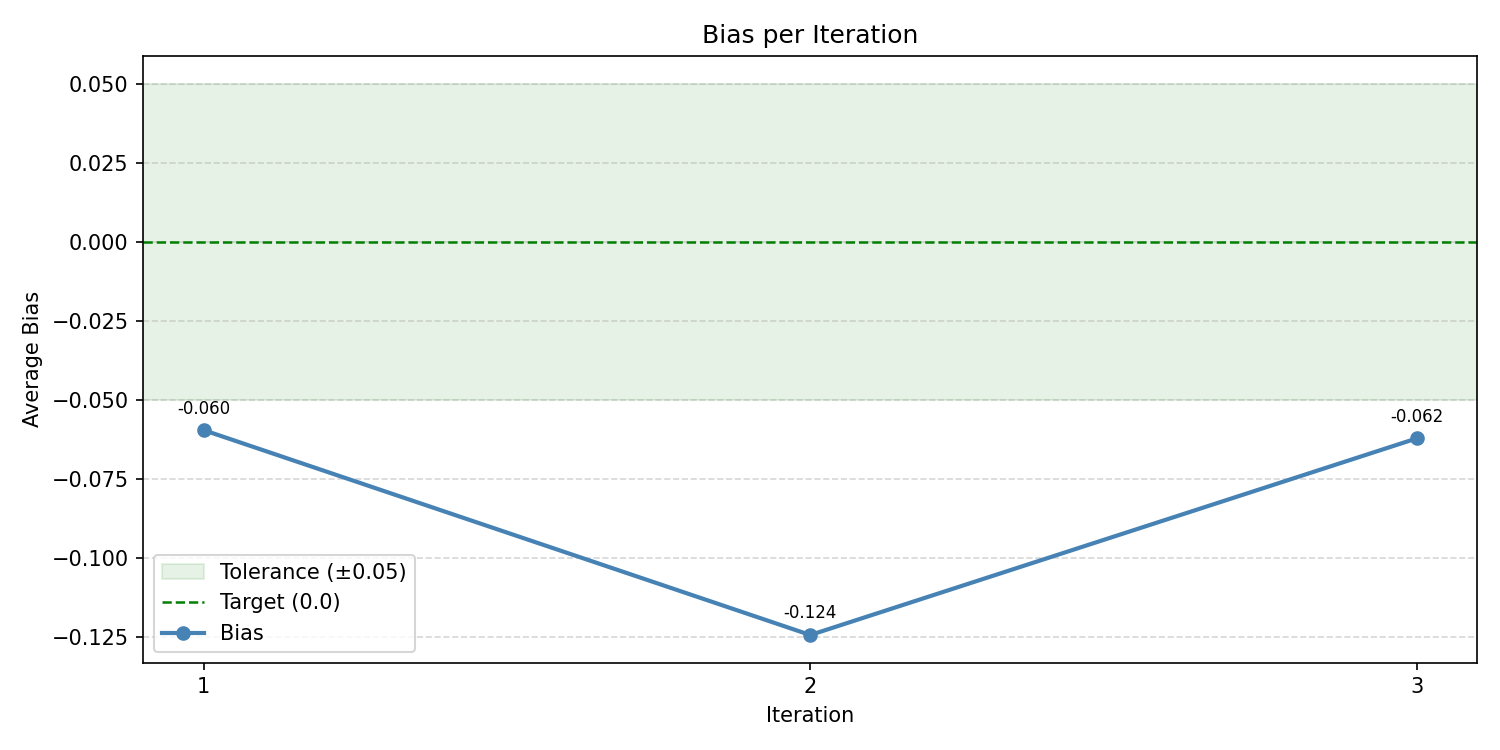
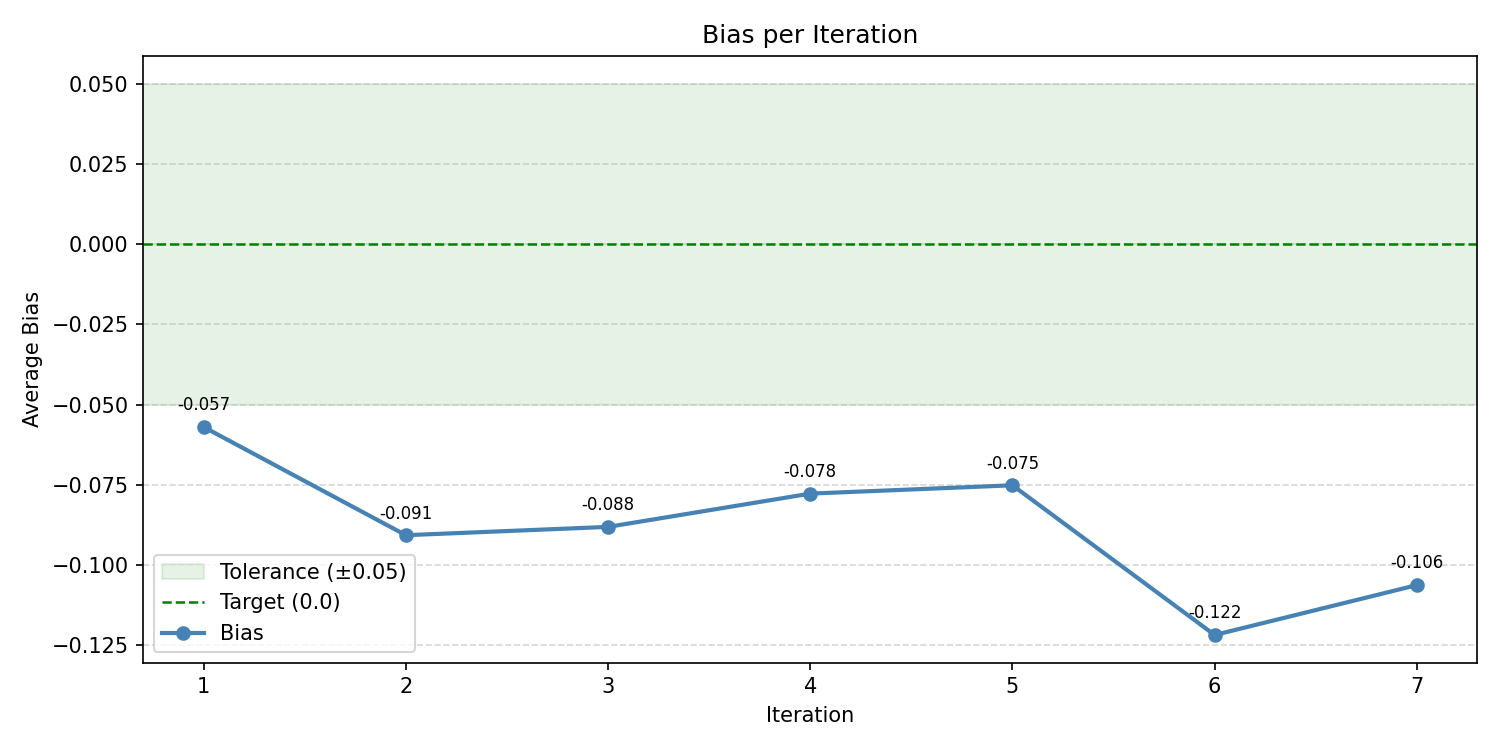
RE: Inflation 2 - historz prompts

diff --git a/Research/Inflation_2/B_promptLoop/z_testPrompt.py b/Research/Inflation_2/B_promptLoop/z_testPrompt.py
@@ -20,25 +20,32 @@ MODEL = "openai/gpt-4o-mini"
 MAX_TOKENS = 4
 RETRIES = 5
 RETRY_SLEEP = 2.0
+HISTORY_SIZE = 10
 
 GRADE_MAP = {"O": 1, "N": 0, "P": -1}
+GRADE_LETTER = {v: k for k, v in GRADE_MAP.items()}
 
 def _parse_grade(raw):
     cleaned = raw.upper().replace('\n', '').replace('.', '').replace('<｜BEGIN▁OF▁SENTENCE｜>', '').strip()
     return GRADE_MAP.get(cleaned, None)
 
-def _call_model(prompt_text, sentence):
+def _call_model(prompt_text, sentence, history=None):
+    messages = []
+    for prev_sentence, prev_grade in (history or [])[-HISTORY_SIZE:]:
+        messages.append({"role": "user", "content": prompt_text + prev_sentence})
+        messages.append({"role": "assistant", "content": GRADE_LETTER[prev_grade]})
+    messages.append({"role": "user", "content": prompt_text + sentence})
     response = openrouter_client.chat.completions.create(
         model=MODEL,
-        messages=[{"role": "user", "content": prompt_text + sentence}],
+        messages=messages,
         max_tokens=MAX_TOKENS,
     )
     return response.choices[0].message.content
 
-def evaluate_sentence(prompt_text, sentence):
+def evaluate_sentence(prompt_text, sentence, history=None):
     for attempt in range(1, RETRIES + 1):
         try:
-            raw = _call_model(prompt_text, sentence)
+            raw = _call_model(prompt_text, sentence, history=history)
             grade = _parse_grade(raw)
             if grade is not None:
                 return grade
@@ -50,7 +57,6 @@ def evaluate_sentence(prompt_text, sentence):
 
 def _meeting_key(filename):
     return int(os.path.splitext(filename)[0].split('_', 1)[0])
-
 
 def load_sentences():
     sentences = []
@@ -98,7 +104,7 @@ def _append_checkpoint(path, grade, sentence):
             writer.writerow(['Grade', 'Sentence'])
         writer.writerow([grade, sentence])
 
-def run_evaluation(prompt_text, sentences=None, verbose=True, checkpoint_dir=None):
+def run_evaluation(prompt_text, sentences=None, checkpoint_dir=None):
     if sentences is None:
         sentences = load_sentences()
 
@@ -112,6 +118,7 @@ def run_evaluation(prompt_text, sentences=None, verbose=True, checkpoint_dir=Non
     results = []
     total = len(sentences)
     i = 0
+    history = []
 
     for date in sorted(grouped.keys(), key=_meeting_key):
         checkpoint_path = os.path.join(checkpoint_dir, f'{date}.csv') if checkpoint_dir else None
@@ -121,17 +128,18 @@ def run_evaluation(prompt_text, sentences=None, verbose=True, checkpoint_dir=Non
             i += 1
             if sentence in completed:
                 grade = completed[sentence]
-                if verbose:
-                    print(f"[{i}/{total}] {date}: {sentence[:80]}... (checkpoint: {grade})")
+                print(f"[{i}/{total}] {date}: {sentence[:80]}... (checkpoint: {grade})")
                 results.append({'date': date, 'sentence': sentence, 'grade': grade})
+                if grade is not None:
+                    history.append((sentence, grade))
                 continue
 
-            if verbose:
-                print(f"[{i}/{total}] {date}: {sentence[:80]}...")
-            grade = evaluate_sentence(prompt_text, sentence)
-            if verbose:
-                print(f"  -> {grade}")
+            print(f"[{i}/{total}] {date}: {sentence[:80]}...")
+            grade = evaluate_sentence(prompt_text, sentence, history=history)
+            print(f"  -> {grade}")
             results.append({'date': date, 'sentence': sentence, 'grade': grade})
+            if grade is not None:
+                history.append((sentence, grade))
 
             if checkpoint_path:
                 _append_checkpoint(checkpoint_path, grade, sentence)

diff --git a/Research/Inflation_2/B_promptLoop/a_promptLoop.py b/Research/Inflation_2/B_promptLoop/a_promptLoop.py
@@ -124,7 +124,7 @@ def main():
         print(f"{'='*60}")
 
         _save_partial_summary(folder, iteration, prompt_alterable)
-        evaluation = run_evaluation(full_prompt, sentences=sentences, verbose=True, checkpoint_dir=os.path.join(folder, 'checkpoints'))
+        evaluation = run_evaluation(full_prompt, sentences=sentences, checkpoint_dir=os.path.join(folder, 'checkpoints'))
         current_bias = evaluation['bias']
 
         if current_bias is None:
